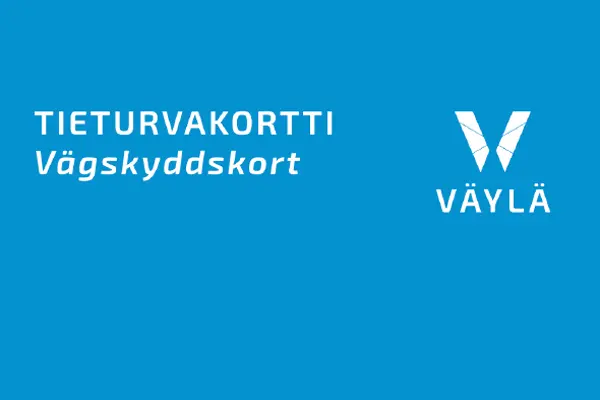
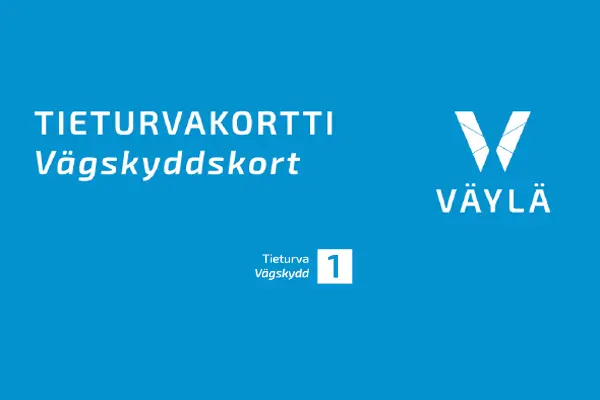
roadsafety

Changed region(s): [[0.42, 0.6, 0.6, 0.72]]

diff --git a/index.html b/index.html
@@ -1047,7 +1047,7 @@
                                 Occupational Safety Card
                             </h4>
                             <p>
-                                The Centre for Occupational Safety, VALID: 07/2027
+                                The Centre for Occupational Safety, VALID:07/2027
                             </p>
                         </div>
                     </div>
@@ -1059,7 +1059,19 @@
                                 Roadwork Safety 1 Training
                             </h4>
                             <p>
-                                The Finnish Road Administration, VALID: 10/2027
+                                The Finnish Road Administration, VALID:10/2027
+                            </p>
+                        </div>
+                    </div>
+
+                    <div class="blog">
+                        <img src="img/road2.webp" alt="Jarno Kiimala - The Finnish Road Administration">
+                        <div class="blog-text">
+                            <h4>
+                                Roadwork Safety 2 Training
+                            </h4>
+                            <p>
+                                The Finnish Road Administration, VALID:05/2029
                             </p>
                         </div>
                     </div>
